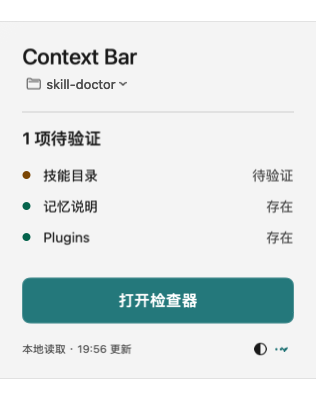
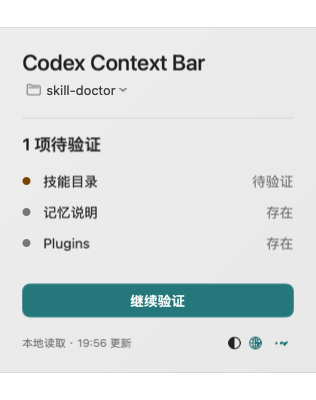
feat(branding): clarify Codex focus and update design documentation

diff --git a/Sources/CodexContextBar/CodexContextBarApp.swift b/Sources/CodexContextBar/CodexContextBarApp.swift
@@ -19,11 +19,11 @@ struct CodexContextBarApp: App {
                 .preferredColorScheme(theme.colorScheme)
         } label: {
             Image(nsImage: Self.menuBarIcon)
-                .accessibilityLabel("Context Bar")
+                .accessibilityLabel("Codex Context Bar")
         }
         .menuBarExtraStyle(.window)
 
-        Window("Context Bar", id: "dashboard") {
+        Window("Codex Context Bar", id: "dashboard") {
             Dashboard(model: model).environment(\.locale, model.language.locale).environment(\.appLanguage, model.language)
                 .preferredColorScheme(theme.colorScheme)
         }
@@ -39,7 +39,7 @@ struct MenuContent: View {
 
     var body: some View {
         VStack(alignment: .leading, spacing: 0) {
-            Text("Context Bar").font(.system(size: 22, weight: .medium)).padding(.bottom, 6)
+            Text("Codex Context Bar").font(.system(size: 22, weight: .medium)).padding(.bottom, 6)
             ProjectMenu(model: model)
                 .menuStyle(.borderlessButton).font(.system(size: 14))
                 .foregroundStyle(InspectorTheme.secondary).tint(InspectorTheme.secondary)
@@ -81,7 +81,7 @@ struct MenuContent: View {
                         .disabled(model.refreshing || model.project == nil)
                     Button(model.language.text("选择 Codex 数据目录…"), action: model.chooseCodexHome)
                     Button(model.language.text("恢复默认数据目录"), action: model.restoreDefaultCodexHome)
-                    Button(model.language.text("退出 Context Bar")) { NSApp.terminate(nil) }
+                    Button(model.language.text("退出 Codex Context Bar")) { NSApp.terminate(nil) }
                 } label: { Image(systemName: "ellipsis").font(.system(size: 12)) }
                 .menuStyle(.borderlessButton).frame(width: 18).accessibilityLabel(model.language.text("更多选项"))
             }.padding(.top, 18)

diff --git a/Sources/CodexContextBar/SavingsDashboard.swift b/Sources/CodexContextBar/SavingsDashboard.swift
@@ -58,8 +58,8 @@ struct SavingsDashboard: View {
                         .resizable().interpolation(.high).frame(width: 42, height: 42)
                         .accessibilityHidden(true)
                 }
-                Text("Context Bar").font(.system(size: 17, weight: .semibold))
-                Text(model.language.text("让 AI 专注于重要的内容"))
+                Text("Codex Context Bar").font(.system(size: 16, weight: .semibold))
+                Text(model.language.text("专注于 Codex 上下文优化"))
                     .font(.system(size: 12)).foregroundStyle(InspectorTheme.secondary)
             }
             .padding(.horizontal, 12).padding(.top, 26)

diff --git a/README.md b/README.md
@@ -84,7 +84,7 @@ scripts/build-app.sh       构建并本地签名 .app
 
 ## 界面设计与验证
 
-采用方案 1 的项目工作台布局：浅灰材质侧栏、系统字体、细分隔线与少量青绿色强调。当前项目 / 所有项目和近 7 / 30 天分别切换，每次只展示一组金额；计算说明按需展开。三项说明采用原位展开列表，配置影响、预览和验证连在同一路径中。详细会话检查器仍可从“查看会话依据”进入。界面跟随系统明暗主题。
+采用方案 1 的项目工作台布局：浅灰材质侧栏、系统字体、细分隔线与少量青绿色强调。当前项目 / 所有项目和近 7 / 30 天分别切换，每次只展示一组金额；计算说明按需展开。三项说明采用原位展开列表，配置影响、预览和验证连在同一路径中。详细会话检查器仍可从“查看会话依据”进入。设置中可选择跟随系统、浅色或深色主题，选择会自动保存。
 
 ![原生项目工作台](docs/design/workbench-light.png)
 
@@ -100,7 +100,7 @@ CONTEXT_BAR_SNAPSHOT_DIR=/tmp/context-bar-snapshots swift test
 
 ## 磨砂玻璃外观
 
-主窗口、会话详情、设置和菜单栏面板使用 macOS 原生背景模糊，配合柔和透底与细微高光，形成接近 iOS 的磨砂玻璃质感。在侧栏“设置”中，在会话详情页右上角“更多 → 设置”中，或点击菜单栏面板底部的半圆图标，可实时调整背景透明度（0–85%，默认 65%），并自动保存到应用偏好设置。透明度调节直接控制玻璃底色，窗口后的内容由系统模糊处理；文字和按钮不随背景变透明。系统开启“减少透明度”时使用实色背景。
+主窗口、会话详情、设置和菜单栏面板使用 macOS 原生背景模糊，配合柔和透底与细微高光，形成接近 iOS 的磨砂玻璃质感。在侧栏“设置”中，在会话详情页右上角“更多 → 设置”中，或点击菜单栏面板底部的半圆图标，可实时调整背景透明度（0–100%，默认 85%），并自动保存到应用偏好设置。透明度调节直接控制玻璃底色，窗口后的内容由系统模糊处理；文字和按钮不随背景变透明。系统开启“减少透明度”时使用实色背景。
 
 配置验证用的会话头读取在判定点立即结束；费用分析另外流式读取历史，只保留用量与目标 Token 计数，不保留正文。分块读取只解析完整 JSON 行，单行读取有内存上限。刷新时工具栏显示加载状态。
 

diff --git a/design-qa.md b/design-qa.md
@@ -89,3 +89,8 @@ Iteration: English Configuration label broke mid-word at 880×640; widened Engli
 Applied native behind-window underWindowBackground material to workbench content, inspector, context toolbar and settings, with a subtle adaptive white highlight and a fine settings-panel edge. The persisted 0–85% slider now directly controls backing opacity, retaining full-strength blur and opaque foreground controls. Reduce Transparency omits blur/highlights and uses a solid system surface. Settings labels the glass control; the compact menu retains its icon.
 
 Inspected rendered appearance panel, light workbench, dark inspector and final shared settings. 47 tests, release build and diff check pass. Offscreen images verify layout, foreground readability and the tint/highlight treatment only; they cannot establish actual WindowServer wallpaper blur or on-screen compositing. Live blur validation remains outstanding. No change to configuration or cost semantics.
+
+
+## 2026-09-27 — Codex identity and appearance preferences
+
+Window, sidebar and menu now explicitly identify Codex Context Bar. Settings adds a persisted System / Light / Dark theme preference, applied to both app scene roots. Transparency is continuous 0–100%, defaults/resets to 85%, and preserves existing saved choices. At 100% native blur remains while the backing tint is removed. Inspected synthetic settings, appearance, workbench and menu snapshots for label fit and default value. Theme mapping regression covered; 48 tests pass. Actual on-screen theme switching and desktop blur still require live GUI verification.
